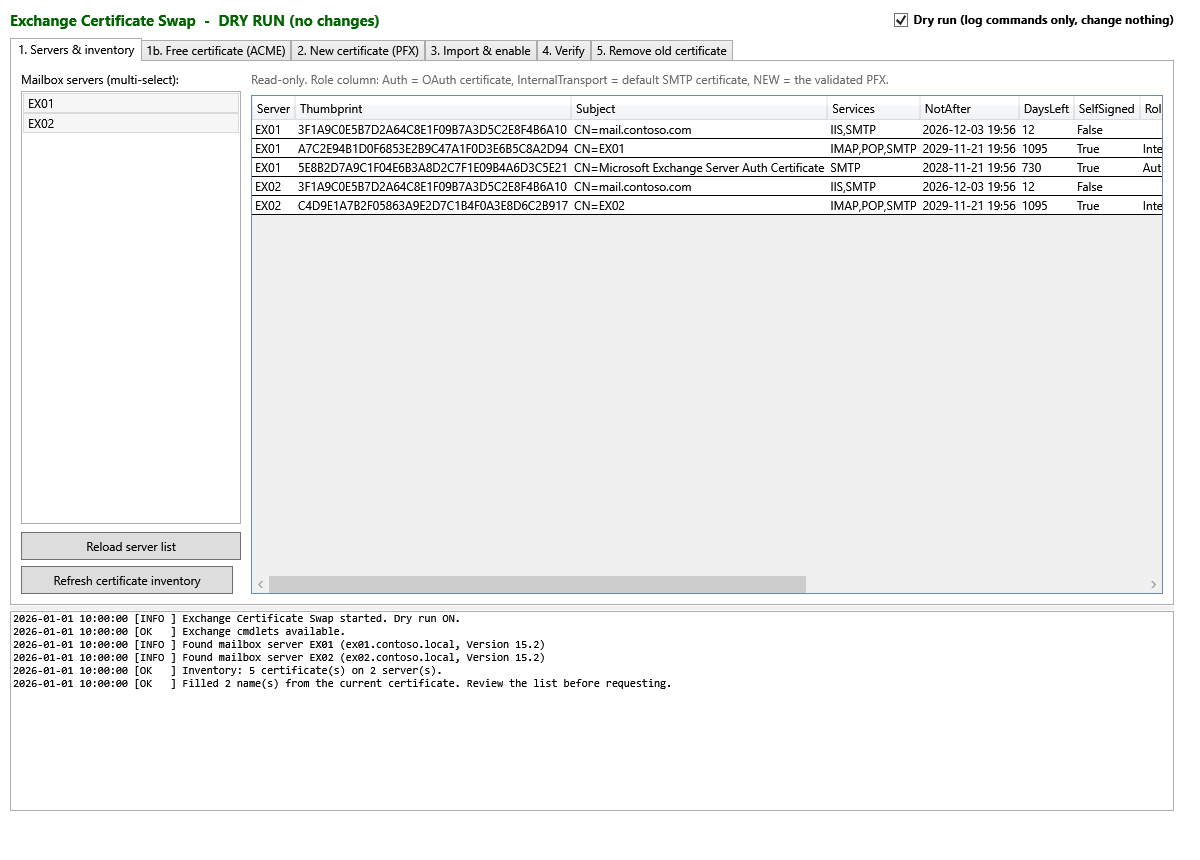
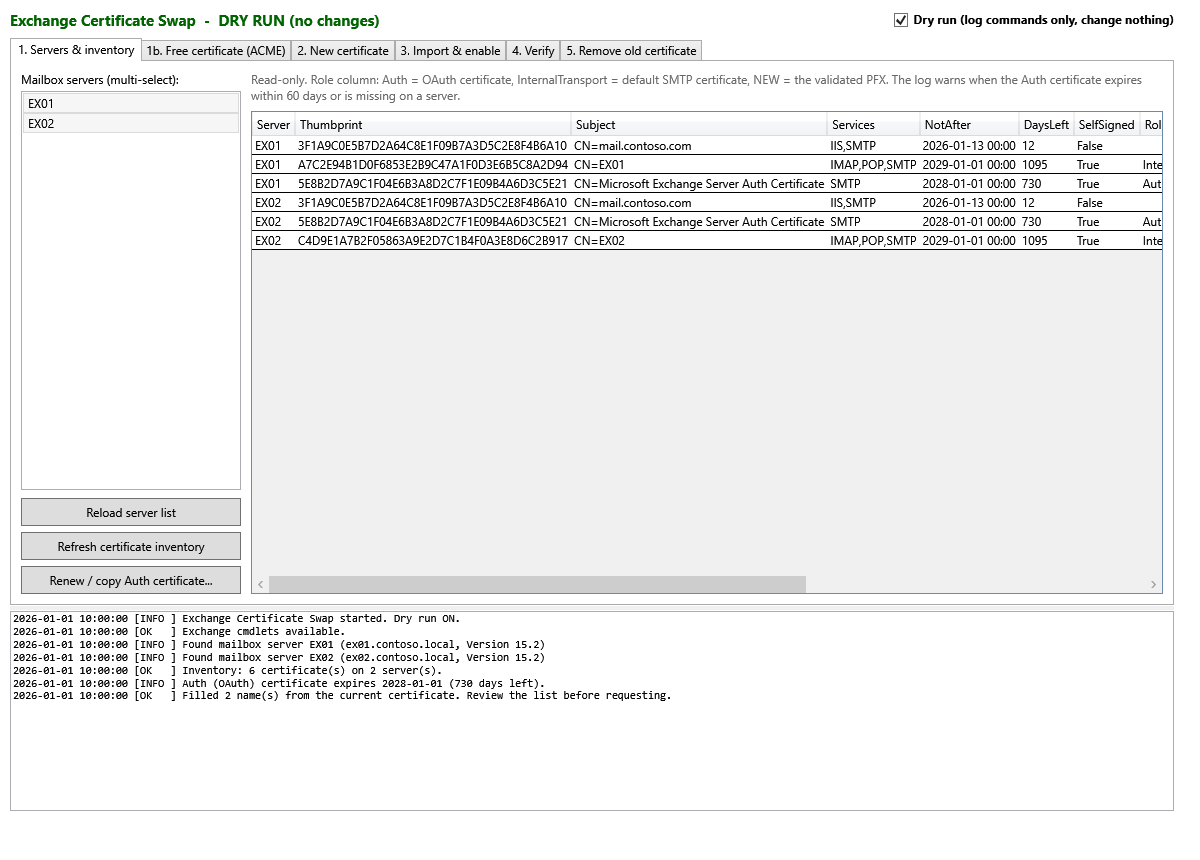
README: known limitations, key-in-files note (Posh-ACME, Edge package), removal blockers, POP/IMAP restart, RPC requirement, test coverage; refresh main screenshot

diff --git a/README.md b/README.md
@@ -30,14 +30,18 @@ A single-file PowerShell **WPF GUI** for replacing the public IIS/SMTP certifica
 - **Automatic renewal**: `-Renew` renews a free certificate from a scheduled task and installs it on all servers. See [Automatic renewal](#automatic-renewal--renew).
 - **Safe removal of the old certificate**: a certificate is removed only if:
   - its server passed verification
-  - it is not the Auth or internal transport certificate
+  - it is not the current, previous or next Auth certificate, or the internal transport certificate
   - it is no longer bound to IIS
-  - no connector points to it
+  - no connector and not the hybrid configuration points to it
 
   You confirm each removal.
 - **Dry run by default**: every command is logged instead of being run. You turn Dry run off on purpose, and the header switches to red **LIVE MODE**.
 - **Full log**: each run writes `logs\CertSwap_<timestamp>.log` next to the script (`CertRenew_<timestamp>.log` for `-Renew`). PFX passwords are never logged.
-- **No private key is written to the machine that runs the tool**: the PFX is opened with `EphemeralKeySet`, so its key stays in memory. It never goes into a Windows key store or onto a smart card or hardware token. The key is installed only on the Exchange servers, through `Import-ExchangeCertificate`.
+- **No private key goes into a key store on the machine that runs the tool**: the PFX is opened with `EphemeralKeySet`, so its key stays in memory. It never goes into a Windows key store or onto a smart card or hardware token. The key is installed only on the Exchange servers, through `Import-ExchangeCertificate`. Two features do keep the key **in files**:
+  - **Free certificates**: Posh-ACME saves the issued certificate and its key in `%LOCALAPPDATA%\Posh-ACME`.
+  - **The Edge package**: it puts a copy of the PFX in `logs\EdgePackage_*`.
+
+  Protect or delete those folders.
 
 ## Requirements
 
@@ -48,7 +52,7 @@ A single-file PowerShell **WPF GUI** for replacing the public IIS/SMTP certifica
 | PowerShell | **Windows PowerShell 5.1** (`powershell.exe`, not PowerShell 7), run as administrator |
 | .NET Framework | 4.7.2 or newer |
 | Permissions | Organization Management (or a role that can manage Exchange certificates, connectors and transport services) |
-| Network | From the machine running the tool to each server's FQDN on TCP 443 (and 25 for the SMTP check, 995/993 for POP/IMAP). **PowerShell remoting** (WinRM, 5985) to each server for the Auth certificate renewal and the rolling restart. Outbound HTTPS to `dns.google` or `cloudflare-dns.com` for the DANE check (skipped if blocked). |
+| Network | From the machine running the tool to each server's FQDN on TCP 443 (and 25 for the SMTP check, 995/993 for POP/IMAP). **PowerShell remoting** (WinRM, 5985) to each server for the Auth certificate renewal and the rolling restart. Remote service control (RPC/SMB, 135/445) to restart Frontend Transport and POP/IMAP. Outbound HTTPS to `dns.google` or `cloudflare-dns.com` for the DANE check (skipped if blocked). |
 | Certificate | A PFX (`.pfx`/`.p12`) **with private key**, ideally including the intermediate CA certificates, **or** a free ACME certificate (see below) |
 | Free certificates only | The [Posh-ACME](https://www.powershellgallery.com/packages/Posh-ACME) module (the tool can install it), outbound HTTPS to the CA's ACME server, and public DNS names. HTTP-01 also needs inbound port 80 from the internet to the Exchange servers and admin share access (`\\server\C$`) to each server. |
 
@@ -68,7 +72,7 @@ A single-file PowerShell **WPF GUI** for replacing the public IIS/SMTP certifica
 
 ## Step-by-step
 
-> Keep **Dry run** ticked for your first pass and read the log. Then untick it and repeat the steps that change things (3 and 5).
+> Keep **Dry run** ticked for your first pass and read the log. Then untick it and repeat the steps that change things: tab 1b, tab 3 and tab 5, plus the *Auth*, *CSR* and *Rolling restart* buttons.
 
 | Tab | What happens | Changes anything? |
 |---|---|---|
@@ -135,7 +139,7 @@ Tab 5 won't remove the old certificate while any connector still points to it.
 
 ## POP3 and IMAP4
 
-Tick *Also enable it for POP3 and IMAP4* on tab 3 only if clients use them. Step B then enables the certificate for POP and IMAP too. If `X509CertificateName` in `Get-PopSettings`/`Get-ImapSettings` is not a name on the new certificate, the tool sets it to the first non-wildcard name (the log contains the previous value), and it restarts the POP3 and IMAP4 services that are running. Tab 4 then checks ports 995 and 993.
+Tick *Also enable it for POP3 and IMAP4* on tab 3 only if clients use them. Step B then enables the certificate for POP and IMAP too. If `X509CertificateName` in `Get-PopSettings`/`Get-ImapSettings` is not a name on the new certificate, the tool sets it to the first non-wildcard name (the log contains the previous value). It restarts the running POP3 and IMAP4 services only when something changed: the name, or the certificate was just enabled for POP/IMAP. Tab 4 then checks ports 995 and 993.
 
 ## Mail flow checks
 
@@ -278,9 +282,26 @@ Without `-Live`, the run is a dry run: it stops before the ACME request (or, if 
 - **HTTP-01 fails with 403**: *Require SSL* is set on the root of *Default Web Site*. Use DNS-01, or allow HTTP for `/.well-known/acme-challenge` only.
 - The **Exchange Back End** site (port 444) is never changed. The **Auth certificate** changes only when you click **Renew / copy Auth certificate** on tab 1.
 
+## Known limitations
+
+- **Rollback** restores only certificates and names that are in the snapshot:
+  - If IIS used a **self-signed** certificate before, IIS can't be rolled back to it.
+  - A POP/IMAP `X509CertificateName` that was **empty** before isn't cleared again.
+- **POP/IMAP with a wildcard-only certificate**: the name is set to `mail.<domain>`. Check that this name exists in DNS, or set `X509CertificateName` yourself.
+- **CSR created twice for the same name on different servers**: *Complete pending request* can leave a copy without a private key on the server that doesn't own the key. The log reports it as an error; remove that copy by hand.
+- **`-Renew` from a scheduled task** is tested against mock cmdlets only. Before relying on it, do one dry run from the task itself, as the task's user.
+- **Edge Transport, Exchange 2013 and older**: not managed directly (see above).
+
 ## Testing without Exchange
 
-`tests\Test-ExchangeCertTool.ps1` runs the tool against mock Exchange cmdlets (two servers, sample certificates and connectors). It needs no Exchange and no network, and it doesn't create certificates or keys. It covers the inventory, validation of an installed certificate, the mail flow checks, Steps B and C, snapshots and rollback, the Auth certificate, the Edge package and an unattended renewal. It prints PASS/FAIL per check and exits with 1 if any check fails:
+`tests\Test-ExchangeCertTool.ps1` runs the tool against mock Exchange cmdlets (two servers, sample certificates and connectors). It needs no Exchange and no network, and it doesn't create certificates or keys. It covers:
+- the inventory and validation of an installed certificate;
+- the mail flow checks;
+- Steps B and C, with snapshots and rollback;
+- the Auth certificate, including a failed `Get-AuthConfig`;
+- POP/IMAP restarts;
+- the Edge package;
+- unattended renewal, including `-ForceRenew`, which must not reuse the certificate already on IIS. It prints PASS/FAIL per check and exits with 1 if any check fails:
 
 ```powershell
 powershell.exe -NoProfile -STA -ExecutionPolicy Bypass -File .\tests\Test-ExchangeCertTool.ps1
